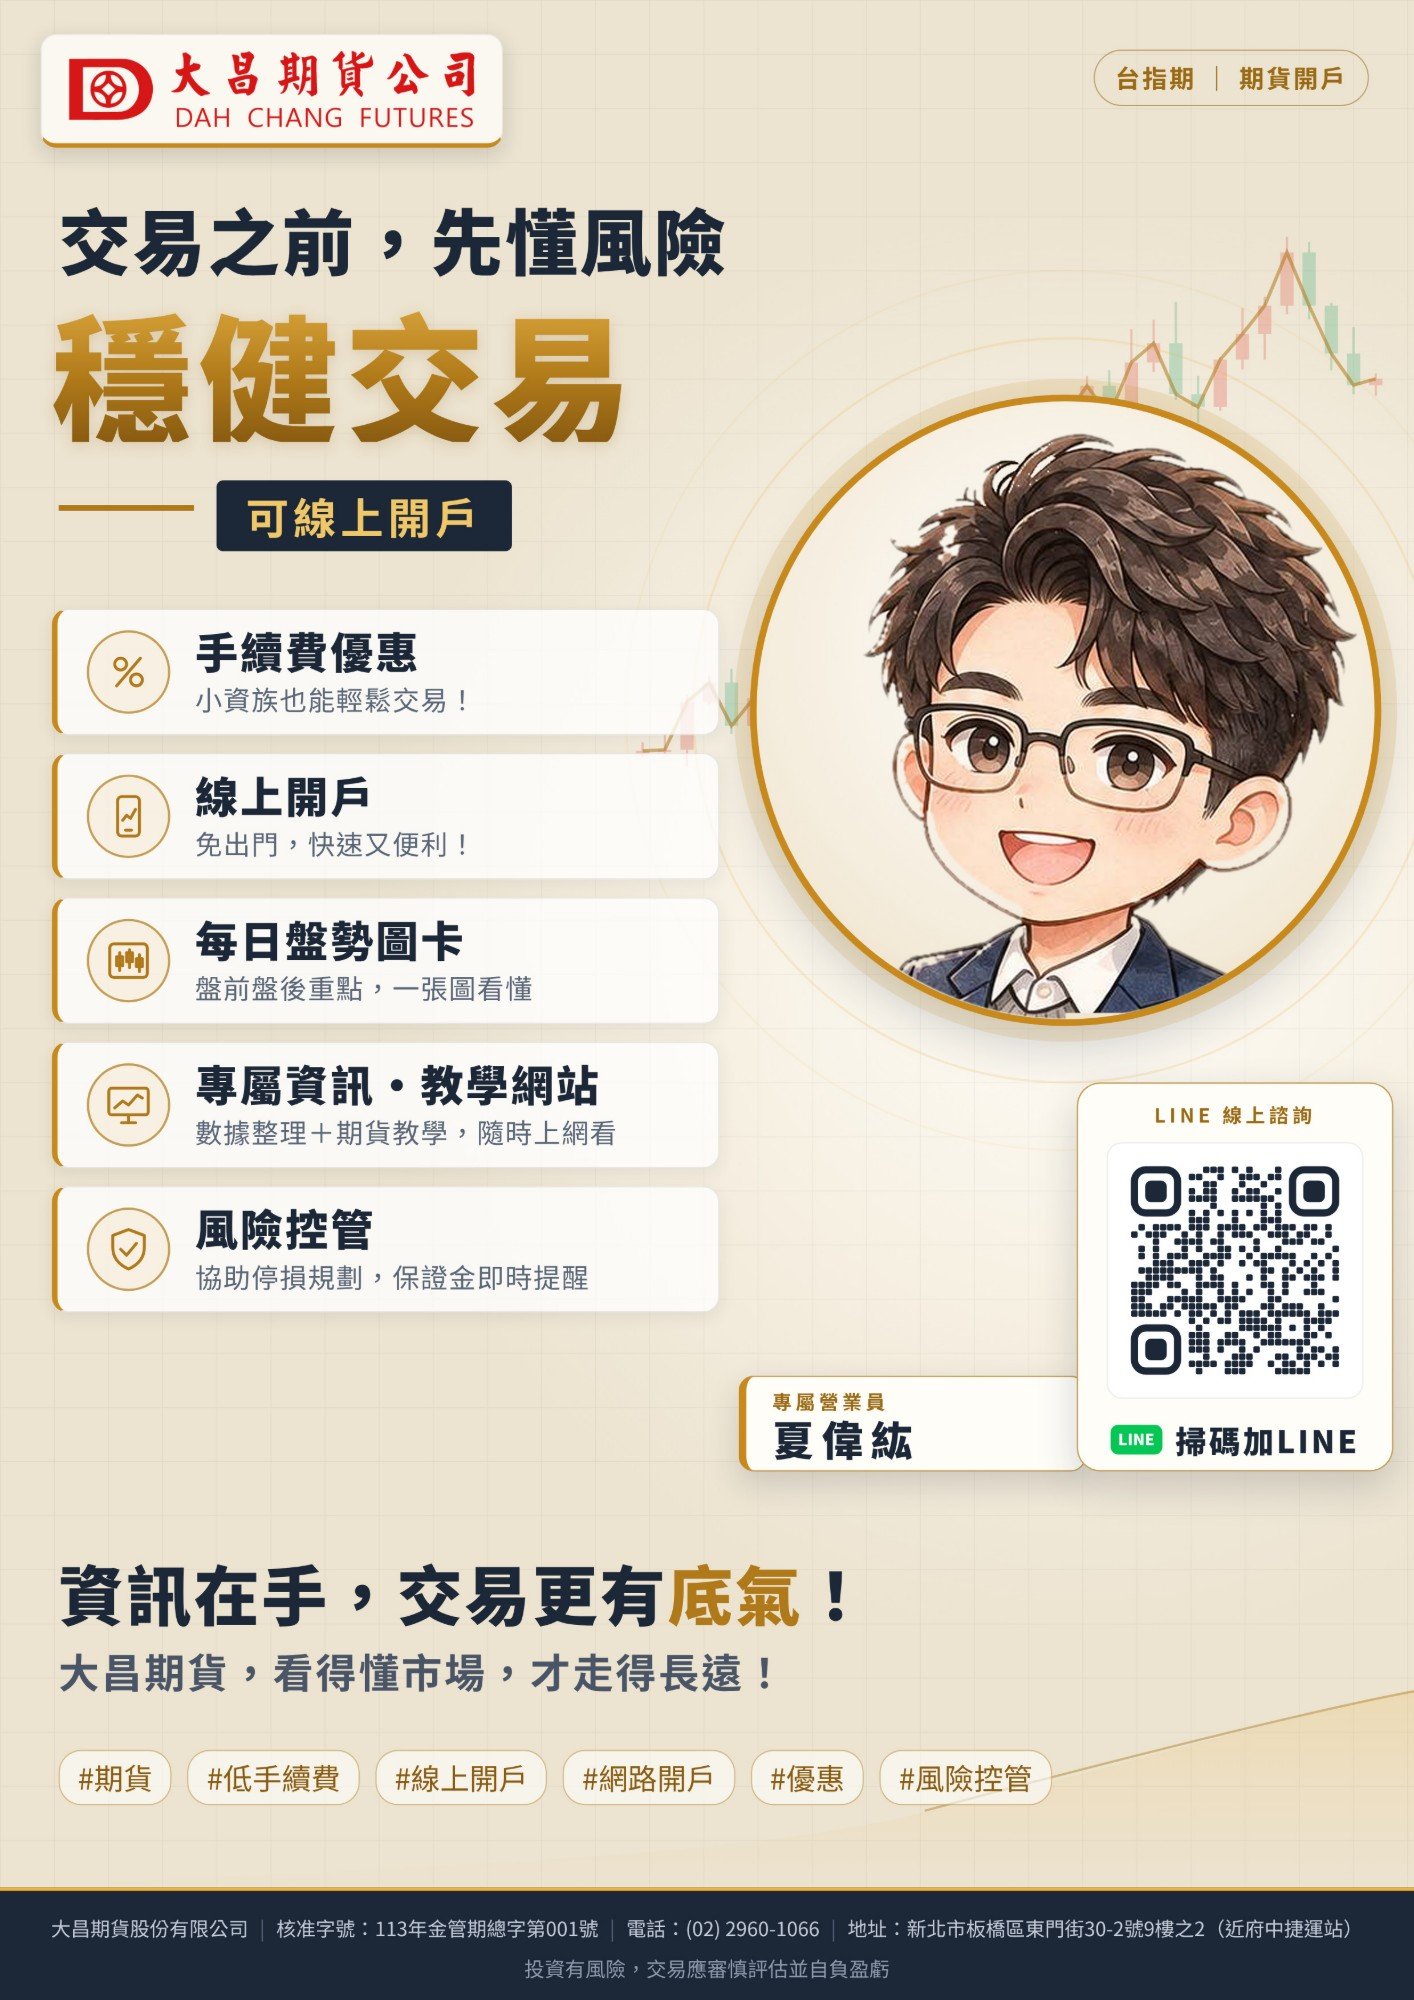
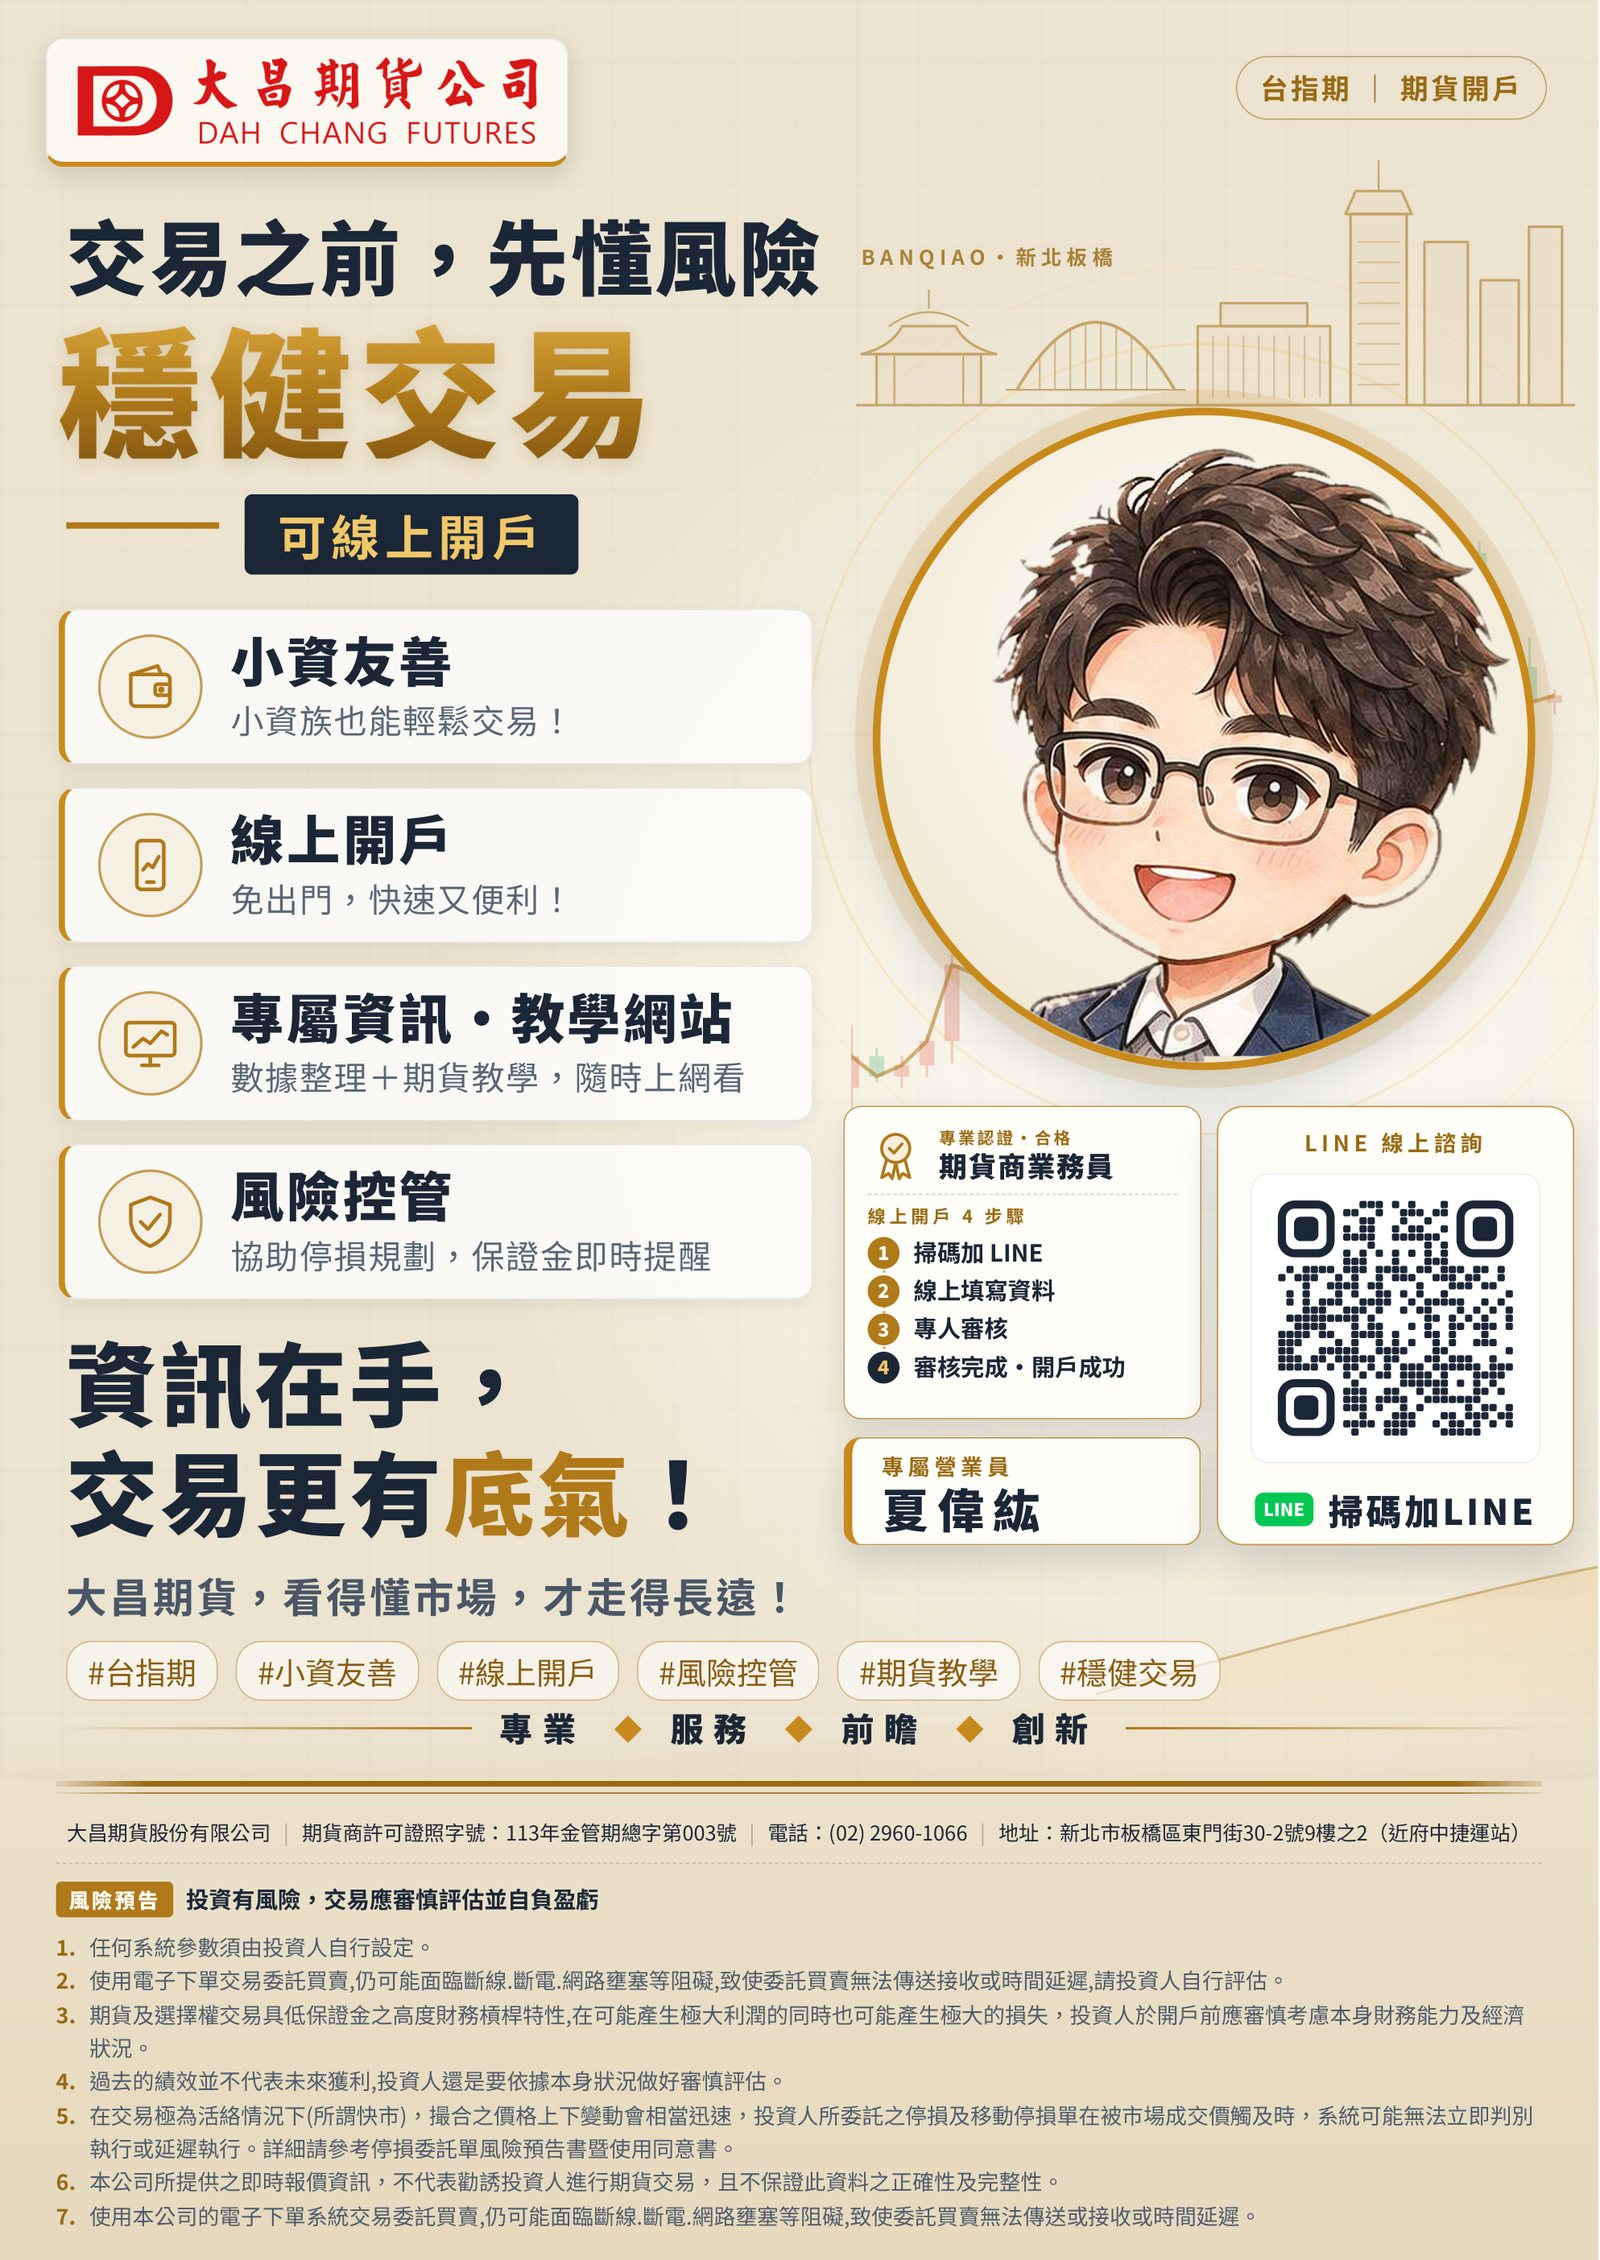
聯絡我們頁換成新版宣傳海報（PDF 轉 1600px JPG），點圖可放大，電腦版聯絡資訊捲動時固定

diff --git a/style.css b/style.css
@@ -188,11 +188,15 @@ tbody td:first-child { font-weight: 500; color: var(--ink); }
 .wrap > h3.sub:first-child { margin-top: 0; }
 .settle-link { margin-top: 28px; }
 .ct-open { max-width: 640px; margin-top: 20px; }
-.ct-layout { display: grid; grid-template-columns: minmax(0, 460px) minmax(0, 640px); gap: 28px; align-items: start; }
+.ct-layout { display: grid; grid-template-columns: minmax(0, 480px) minmax(0, 1fr); gap: 32px; align-items: start; }
 .ct-layout .ct-flyer { order: -1; }
+.ct-main { position: sticky; top: 88px; max-width: 640px; }
 .ct-flyer { margin: 0; }
-.ct-flyer img { display: block; width: 100%; height: auto; border-radius: 12px; box-shadow: var(--shadow); }
-@media (max-width: 900px) { .ct-layout { grid-template-columns: minmax(0, 640px); } .ct-layout .ct-flyer { order: 0; } }
+.ct-flyer a { display: block; border-radius: 12px; }
+.ct-flyer img { display: block; width: 100%; height: auto; border-radius: 12px; box-shadow: var(--shadow); transition: transform .2s ease, box-shadow .2s ease; }
+.ct-flyer a:hover img { transform: translateY(-2px); }
+.ct-flyer figcaption { margin-top: 10px; text-align: center; font-size: 13px; color: var(--muted); }
+@media (max-width: 900px) { .ct-layout { grid-template-columns: minmax(0, 640px); gap: 24px; } .ct-layout .ct-flyer { order: 0; } .ct-main { position: static; } }
 .sec-head-link { white-space: nowrap; padding: 9px 18px; }
 .seg.seg3.seg-prod label input:checked + span { background: var(--accent); color: #fff; }
 .rc-head { margin: 0; font-size: 14px; opacity: .8; }

diff --git a/contact.html b/contact.html
@@ -53,8 +53,11 @@
             </a>
           </div>
           <figure class="ct-flyer">
-            <img src="images/contact-card.jpg" width="1414" height="2000" loading="lazy" decoding="async"
-              alt="大昌期貨專屬營業員夏偉紘字卡：手續費優惠、線上開戶、每日盤勢圖卡、專屬資訊與教學網站、風險控管，附 LINE 線上諮詢 QR Code。">
+            <a href="images/contact-card.jpg" target="_blank" rel="noopener" title="開啟原尺寸海報">
+              <img src="images/contact-card.jpg" width="1600" height="2260" loading="lazy" decoding="async"
+                alt="大昌期貨專屬營業員夏偉紘宣傳海報：交易之前，先懂風險，穩健交易、可線上開戶；小資友善、線上開戶、專屬資訊與教學網站、風險控管；線上開戶 4 步驟與 LINE 線上諮詢 QR Code；附公司資訊與風險預告。">
+            </a>
+            <figcaption>點圖片可放大查看完整內容</figcaption>
           </figure>
         </div>
         <div class="back-row"><a class="btn ghost" href="index.html">← 回到首頁</a></div>
